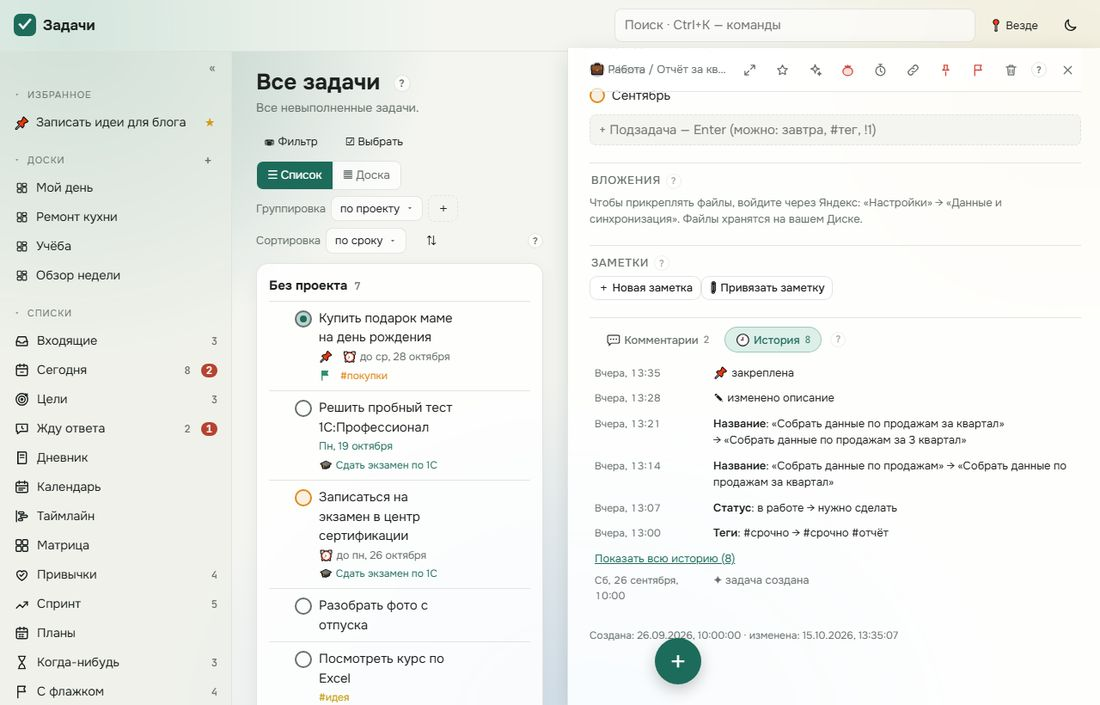
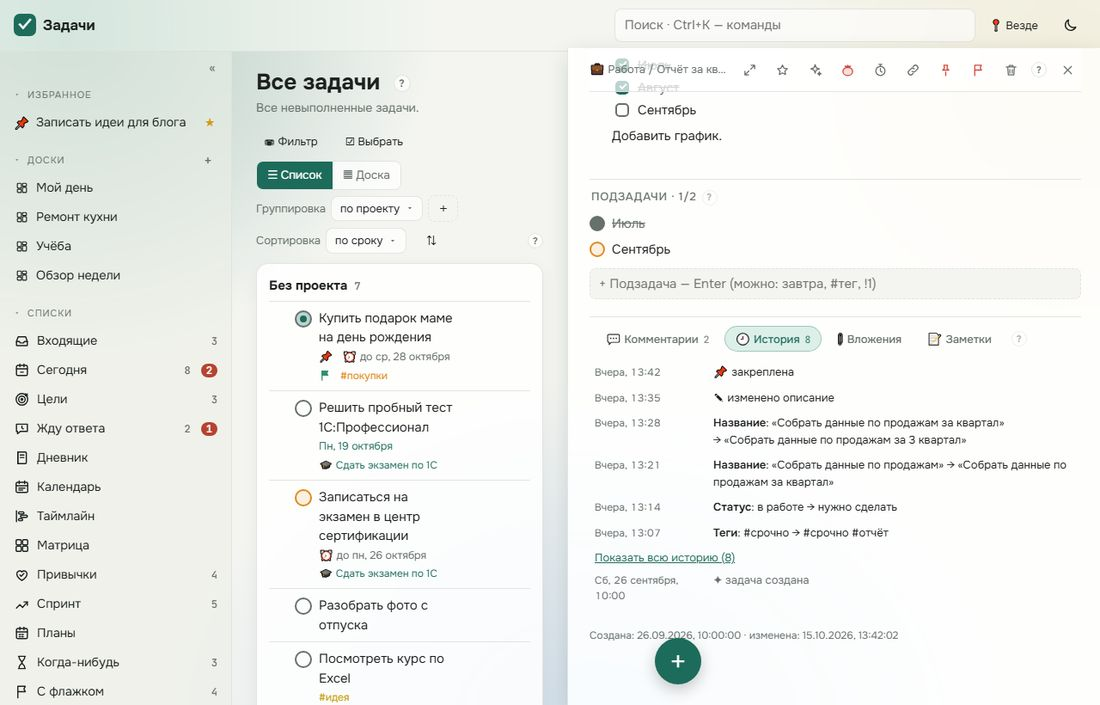
Задачи: вложения и заметки — тоже закладками рядом с комментариями и историей

diff --git a/zadachi/index.html b/zadachi/index.html
@@ -1800,7 +1800,8 @@ CREATE TABLE inbox (
   }
   function hiWhen(d) { return dayName(d) + ", " + hm(d); }
   var HALL = null;
-  function pnTab() { return LS.get("zd-pntab") === "hist" ? "hist" : "chat"; }
+  function pnTab() { var v = LS.get("zd-pntab"); return v === "hist" || v === "files" || v === "notes" ? v : "chat"; }
+  function pnTabSet(box, v) { LS.set("zd-pntab", v); [].forEach.call(box.querySelectorAll("[data-p=pntab]"), function (b) { var on = b.dataset.v === v; b.classList.toggle("on", on); b.setAttribute("aria-selected", on); }); [].forEach.call(box.querySelectorAll(".pntb"), function (b) { b.hidden = b.dataset.tb !== v; }); }
   function histBody(t) {
     var h = Array.isArray(t.h) ? t.h : [], all = HALL === t.id, list = h.slice().reverse(), shown = all ? list : list.slice(0, 6);
     var out = "";
@@ -2076,7 +2077,7 @@ CREATE TABLE inbox (
   };
   // данные: сжатый JSON по 900 знаков в свойствах служебных папок app:/tasks/state/c000…
   var CHUNK = 900, ROOT = "app:/tasks/state", ROOT3 = "app:/tasks/s3", LEGACY_UNTIL = new Date("2026-12-31T00:00:00").getTime();
-  var APPV = "zd-app-2026-10-16-46";
+  var APPV = "zd-app-2026-10-16-47";
   function hash32(s) { var h = 0x811c9dc5; for (var i = 0; i < s.length; i++) { h ^= s.charCodeAt(i); h = Math.imul(h, 16777619); } return (h >>> 0).toString(36) + "." + s.length.toString(36); }
   // каноническая запись (ключи по алфавиту) — чтобы одинаковые данные на разных устройствах давали одинаковый отпечаток
   function canon(o) { if (Array.isArray(o)) return "[" + o.map(canon).join(",") + "]"; if (o && typeof o === "object") return "{" + Object.keys(o).sort().map(function (k) { return JSON.stringify(k) + ":" + canon(o[k]); }).join(",") + "}"; return JSON.stringify(o === undefined ? null : o); }
@@ -4814,6 +4815,7 @@ CREATE TABLE inbox (
     var FIG = {
       start: [["today", "«Сегодня» на компьютере: слева — доски, списки, проекты; в середине — задачи; сверху — главное дня, план, привычки"], ["mtoday", "На телефоне левая панель прячется за кнопку ☰", 1]],
       tarch: [["tarch", "«Архив задач»: выполненные по месяцам, поиск, срок архивации"]],
+      chat: [["pntabs", "Закладки внизу карточки: комментарии, история, вложения и заметки"]],
       hist: [["hist", "Блок «История» в карточке: что и когда менялось; ↶ вернуть — прежнее значение"]],
       quick: [["quick", "Быстрый ввод: под полем видно, что поняло приложение — дата и время, проект, тег, приоритет"]],
       pal: [["pal", "Палитра Ctrl+K: поиск по проектам, задачам и командам; Enter без выбора создаёт задачу"]],
@@ -4893,7 +4895,7 @@ CREATE TABLE inbox (
         "<b>Напоминание</b> — в Telegram, в момент начала и/или заранее (за 5, 15, 30 минут, за час, за день).",
         "Ниже — <b>описание</b> (полноценный редактор), <b>подзадачи</b> и <b>комментарии</b>.",
         "У подзадачи вверху — «↑ Родительская задача»."]));
-    h += sec("hist", "История изменений", "<p>Внизу карточки задачи — блок с закладками <b>«💬 Комментарии»</b> и <b>«🕘 История»</b> (выбранная закладка запоминается). История — что и когда менялось. Записываются название, срок и дедлайн, повтор, приоритет, теги, проект и секция, флажок, статус, оценка, спринт, «входит в», «сначала сделать», «жду ответа», цель, закрепление, выполнение и отмена, удаление в корзину и восстановление, изменения описания.</p>" +
+    h += sec("hist", "История изменений", "<p>Внизу карточки задачи — блок с закладками <b>«💬 Комментарии»</b>, <b>«🕘 История»</b>, <b>«📎 Вложения»</b> и <b>«📝 Заметки»</b>; число на закладке — сколько там записей, выбранная закладка запоминается. Файлы можно бросить мышью на любую закладку — откроются «Вложения». История — что и когда менялось. Записываются название, срок и дедлайн, повтор, приоритет, теги, проект и секция, флажок, статус, оценка, спринт, «входит в», «сначала сделать», «жду ответа», цель, закрепление, выполнение и отмена, удаление в корзину и восстановление, изменения описания.</p>" +
       "<ul><li>Новые записи — сверху; видны последние 6, «Показать всю историю» — все (хранятся последние 40 изменений задачи).</li>" +
       "<li><b>↶ вернуть</b> — у записи, если значение с тех пор не менялось: вернёт прежнее (например, срок или проект). Само возвращение тоже попадёт в историю.</li>" +
       "<li>Быстрые правки одного поля подряд (пока печатаете название, двигаете задачу в календаре) собираются в одну запись.</li>" +
@@ -6319,24 +6321,28 @@ CREATE TABLE inbox (
       kids.sort(cmpBy("manual")).map(function (k) { return '<div class="sr' + (k.done ? " done" : "") + '"><button class="ck' + (k.prio ? " p" + k.prio : "") + (k.done ? " dn" : "") + '" type="button" data-p="subtoggle" data-id="' + k.id + '" aria-label="Готово"></button><a data-p="open" data-id="' + k.id + '">' + esc(k.t) + (tkids(k.id).length ? ' <span class="muted">· ' + tkids(k.id).length + "</span>" : "") + (k.at ? ' <span class="muted">· ' + esc(whenTxt(k)) + "</span>" : "") + "</a></div>"; }).join("") +
       '<input id="pn-sub" placeholder="+ Подзадача — Enter (можно: завтра, #тег, !1)"></div>';
     var fl = t.files || [], canUp = YD.on && !!YD.token();
-    h += '<div class="pn-sec pn-files"><h3>Вложения' + (fl.length ? " · " + fl.length : "") + "</h3>" + (fl.length ? '<div class="flist">' + fl.map(function (f) { var img = /^image\//.test(f.ty || ""); return '<div class="fitem">' + (img ? '<img data-ydimg="' + esc(f.p) + '" alt="" loading="lazy">' : '<span class="fic">📄</span>') + '<a data-p="fopen" data-id="' + f.id + '" title="Открыть в новой вкладке">' + esc(f.n) + '</a><span class="muted">' + (f.sz > 1048576 ? (Math.round(f.sz / 104857.6) / 10) + " МБ" : Math.max(1, Math.round((f.sz || 0) / 1024)) + " КБ") + '</span><button type="button" class="ibtn" data-p="fdel" data-id="' + f.id + '" title="Удалить вложение (файл уйдёт в корзину Диска)">×</button></div>'; }).join("") + "</div>" : "") +
-      (canUp ? '<label class="btn sm fpick">📎 Прикрепить файл<input type="file" id="pn-file" multiple hidden></label><span class="muted"> или перетащите файлы сюда · хранятся на вашем Яндекс Диске (папка приложения)</span>' + (ATTUP ? '<div class="muted">Загружаю: ' + esc(ATTUP) + "…</div>" : "") : '<p class="muted" style="margin:0">Чтобы прикреплять файлы, войдите через Яндекс: «Настройки» → «Данные и синхронизация». Файлы хранятся на вашем Диске.</p>') + "</div>";
+    var filesB = (fl.length ? '<div class="flist">' + fl.map(function (f) { var img = /^image\//.test(f.ty || ""); return '<div class="fitem">' + (img ? '<img data-ydimg="' + esc(f.p) + '" alt="" loading="lazy">' : '<span class="fic">📄</span>') + '<a data-p="fopen" data-id="' + f.id + '" title="Открыть в новой вкладке">' + esc(f.n) + '</a><span class="muted">' + (f.sz > 1048576 ? (Math.round(f.sz / 104857.6) / 10) + " МБ" : Math.max(1, Math.round((f.sz || 0) / 1024)) + " КБ") + '</span><button type="button" class="ibtn" data-p="fdel" data-id="' + f.id + '" title="Удалить вложение (файл уйдёт в корзину Диска)">×</button></div>'; }).join("") + "</div>" : "") +
+      (canUp ? '<label class="btn sm fpick">📎 Прикрепить файл<input type="file" id="pn-file" multiple hidden></label><span class="muted"> или перетащите файлы сюда · хранятся на вашем Яндекс Диске (папка приложения)</span>' + (ATTUP ? '<div class="muted">Загружаю: ' + esc(ATTUP) + "…</div>" : "") : '<p class="muted" style="margin:0">Чтобы прикреплять файлы, войдите через Яндекс: «Настройки» → «Данные и синхронизация». Файлы хранятся на вашем Диске.</p>');
     var tn = notesOfTask(t.id);
-    h += '<div class="pn-sec pn-notes"><h3>Заметки' + (tn.length ? " · " + tn.length : "") + "</h3>" + tn.map(function (n) { return '<div class="nrow"><a data-p="nopen" data-id="' + n.id + '">📝 ' + (n.t ? esc(n.t) : "Без названия") + "</a>" + (noteText(n) ? '<span class="muted">' + esc(noteText(n).slice(0, 70)) + "</span>" : "") + '<button type="button" class="ibtn" data-p="nunl" data-id="' + n.id + '" title="Отвязать заметку от задачи">×</button></div>'; }).join("") +
-      '<div class="r"><button type="button" class="btn sm" data-p="nnew">＋ Новая заметка</button><button type="button" class="btn sm" data-p="npick">' + (NPICK ? "Готово" : "📎 Привязать заметку") + "</button></div>" + (NPICK ? '<div class="npick"><input type="search" id="npq" placeholder="Найти заметку" autocomplete="off"><div id="npres">' + taskNotePick(t, "") + "</div></div>" : "") + "</div>";
+    var notesB = (tn.length ? "" : '<p class="muted" style="margin:0 0 6px">К задаче пока не привязано заметок — создайте новую или привяжите готовую (конспект, инструкцию, протокол встречи).</p>') + tn.map(function (n) { return '<div class="nrow"><a data-p="nopen" data-id="' + n.id + '">📝 ' + (n.t ? esc(n.t) : "Без названия") + "</a>" + (noteText(n) ? '<span class="muted">' + esc(noteText(n).slice(0, 70)) + "</span>" : "") + '<button type="button" class="ibtn" data-p="nunl" data-id="' + n.id + '" title="Отвязать заметку от задачи">×</button></div>'; }).join("") +
+      '<div class="r"><button type="button" class="btn sm" data-p="nnew">＋ Новая заметка</button><button type="button" class="btn sm" data-p="npick">' + (NPICK ? "Готово" : "📎 Привязать заметку") + "</button></div>" + (NPICK ? '<div class="npick"><input type="search" id="npq" placeholder="Найти заметку" autocomplete="off"><div id="npres">' + taskNotePick(t, "") + "</div></div>" : "");
     var cm = comments(t.id), lastDay = "";
     var ptab = pnTab(), hn = (t.h || []).length;
     h += '<div class="pn-sec pn-chat pn-tabs"><h3 class="pntabs" role="tablist">' +
       '<button type="button" role="tab" data-p="pntab" data-v="chat" class="' + (ptab === "chat" ? "on" : "") + '" aria-selected="' + (ptab === "chat") + '">💬 Комментарии' + (cm.length ? ' <span class="c">' + cm.length + "</span>" : "") + "</button>" +
-      '<button type="button" role="tab" data-p="pntab" data-v="hist" class="' + (ptab === "hist" ? "on" : "") + '" aria-selected="' + (ptab === "hist") + '">🕘 История' + (hn ? ' <span class="c">' + hn + "</span>" : "") + "</button></h3>" +
+      '<button type="button" role="tab" data-p="pntab" data-v="hist" class="' + (ptab === "hist" ? "on" : "") + '" aria-selected="' + (ptab === "hist") + '">🕘 История' + (hn ? ' <span class="c">' + hn + "</span>" : "") + "</button>" +
+      '<button type="button" role="tab" data-p="pntab" data-v="files" class="' + (ptab === "files" ? "on" : "") + '" aria-selected="' + (ptab === "files") + '">📎 Вложения' + (fl.length ? ' <span class="c">' + fl.length + "</span>" : "") + "</button>" +
+      '<button type="button" role="tab" data-p="pntab" data-v="notes" class="' + (ptab === "notes" ? "on" : "") + '" aria-selected="' + (ptab === "notes") + '">📝 Заметки' + (tn.length ? ' <span class="c">' + tn.length + "</span>" : "") + "</button></h3>" +
       '<div class="pntb" data-tb="chat"' + (ptab === "chat" ? "" : " hidden") + '><div class="msgs">' + cm.map(function (c) {
       var dd = dayName(c.at), out = "";
       if (dd !== lastDay) { out += '<div class="day">' + esc(dd) + "</div>"; lastDay = dd; }
       return out + '<div class="msg" data-cid="' + c.id + '"><div class="mh"><b>' + (c.src === "tg" ? "Telegram" : "Я") + "</b><span>" + hm(c.at) + (c.edited ? " · изменено" : "") + '</span><button type="button" data-p="cedit" title="Изменить">✎</button><button type="button" data-p="cdel" title="Удалить">×</button></div><div class="mb">' + linkify(c.text) + "</div></div>";
     }).join("") + "</div>" + (CED ? '<div class="editing">Редактирование комментария · <a href="#" data-p="ccancel">отмена</a></div>' : "") +
       '<div class="cin"><textarea id="pn-c" rows="1" placeholder="Комментарий… Enter — отправить, Shift+Enter — новая строка">' + esc(CED ? (live(S.comments).filter(function (c) { return c.id === CED; })[0] || {}).text || "" : "") + '</textarea><button class="btn mic sm" type="button" data-a="mic" data-for="pn-c" title="Надиктовать комментарий">🎤</button><button class="btn pri sm" type="button" data-p="csend">' + (CED ? "Сохранить" : "Отправить") + "</button></div></div>" +
-      '<div class="pntb pn-hist" data-tb="hist"' + (ptab === "hist" ? "" : " hidden") + ">" + histBody(t) + "</div></div>";
-    h += '<p class="pn-foot">Создана: ' + new Date(t.created || t.upd || Date.now()).toLocaleString("ru-RU") + (t.upd ? " · изменена: " + new Date(t.upd).toLocaleString("ru-RU") : "") + (t.src === "tg" ? " · из Telegram" : "") + "</p>";
+      '<div class="pntb pn-hist" data-tb="hist"' + (ptab === "hist" ? "" : " hidden") + ">" + histBody(t) + "</div>" +
+      '<div class="pntb pn-files" data-tb="files"' + (ptab === "files" ? "" : " hidden") + ">" + filesB + "</div>" +
+      '<div class="pntb pn-notes" data-tb="notes"' + (ptab === "notes" ? "" : " hidden") + ">" + notesB + "</div></div>";
+    h += '<p class="pn-foot">Создана: ' + new Date(t.created || t.upd || Date.now()).toLocaleString("ru-RU") + (t.upd > 1e11 ? " · изменена: " + new Date(t.upd).toLocaleString("ru-RU") : "") + (t.src === "tg" ? " · из Telegram" : "") + "</p>";
     P.innerHTML = '<div class="grip" title="Потяните, чтобы изменить ширину; двойной клик — ширина по умолчанию"></div><div class="pn-sc"><div class="pn-in">' + h + "</div></div>";
     P.hidden = false; P.classList.toggle("full", full); document.body.classList.add("pnopen"); document.body.classList.toggle("pnfull", full);
     pnLayout(P);
@@ -6348,7 +6354,7 @@ CREATE TABLE inbox (
   }
   /* ---------- карточка задачи: поля и блоки переставляются мышью (порядок — в настройках, синхронизируется) ---------- */
   var PNROW = { "Срок": "due", "Дедлайн": "deadline", "Секция": "sec", "Проект": "proj", "Спринт": "sprint", "Статус": "status", "Приоритет": "prio", "Теги": "tags", "Учёт времени": "track", "Входит в": "parent", "Напоминание": "rem", "Сначала сделать": "after", "Ждут эту задачу": "blocks", "Жду ответа": "wait" };
-  var PNSEC = ["props", "desc", "subs", "files", "notes", "chat"], PDR = null;
+  var PNSEC = ["props", "desc", "subs", "chat"], PDR = null;
   // порядок: сохранённый; недостающие поля встают после своего соседа из порядка по умолчанию
   function pnOrder(keys, saved, def) { var out = saved.filter(function (k) { return keys.indexOf(k) >= 0; }); keys.forEach(function (k) { if (out.indexOf(k) >= 0) return; var di = def.indexOf(k), at = 0; for (var j = di - 1; j >= 0; j--) { var pi = out.indexOf(def[j]); if (pi >= 0) { at = pi + 1; break; } } out.splice(at, 0, k); }); return out; }
   // сохранить новый порядок видимых полей, не теряя места скрытых (например, «Статус» у выполненной задачи)
@@ -6483,7 +6489,7 @@ CREATE TABLE inbox (
     if (a === "del") { flushBody(); del(t); return; }
     if (a === "flag") { var rpf = el.getBoundingClientRect(); ctxShow(rpf.left - 170, rpf.bottom + 4, flagMenu(t), { k: "task", id: t.id }); return; }
     if (a === "pin") { setTask(function (x) { x.pin = !x.pin; }); return; }
-    if (a === "pntab") { var v = el.dataset.v === "hist" ? "hist" : "chat"; LS.set("zd-pntab", v); var box = el.closest(".pn-tabs"); [].forEach.call(box.querySelectorAll("[data-p=pntab]"), function (b) { var on = b.dataset.v === v; b.classList.toggle("on", on); b.setAttribute("aria-selected", on); }); [].forEach.call(box.querySelectorAll(".pntb"), function (b) { b.hidden = b.dataset.tb !== v; }); if (v === "chat") { var ci2 = $("pn-c"); if (ci2) ci2.focus(); } return; }
+    if (a === "pntab") { var v = /^(chat|hist|files|notes)$/.test(el.dataset.v) ? el.dataset.v : "chat"; pnTabSet(el.closest(".pn-tabs"), v); if (v === "chat") { var ci2 = $("pn-c"); if (ci2) ci2.focus(); } return; }
     if (a === "hall") { e.preventDefault(); HALL = HALL === OPEN ? null : OPEN; renderPanel(); return; }
     if (a === "hrev") { var ht = task(OPEN), he = ht && (ht.h || [])[+el.dataset.i]; if (he) { hiSet(ht, he.k, he.o); touch(ht); save(); render(); renderPanel(); toast((HLAB[he.k] || "Поле") + ": вернула прежнее значение"); } return; }
     if (a === "pnreset") { e.preventDefault(); delete S.opt.pnRows; delete S.opt.pnSecs; optTouch(); save(); renderPanel(); toast("Порядок полей и блоков — по умолчанию"); return; }
@@ -6527,9 +6533,9 @@ CREATE TABLE inbox (
   });
   $("panel").addEventListener("change", function (e) { if (e.target.dataset && e.target.dataset.pw === "who") { var tw = task(OPEN); if (tw && tw.wait) { tw.wait.who = e.target.value.trim().slice(0, 60); touch(tw); save(); render(); } } });
   $("panel").addEventListener("change", function (e) { if (e.target.id === "pn-file") { var tf = task(OPEN); if (tf) attUpload(tf, e.target.files); e.target.value = ""; } });
-  $("panel").addEventListener("dragover", function (e) { if (e.target.closest && e.target.closest(".pn-files") && e.dataTransfer && [].indexOf.call(e.dataTransfer.types || [], "Files") >= 0) { e.preventDefault(); e.target.closest(".pn-files").classList.add("dropin"); } });
-  $("panel").addEventListener("dragleave", function (e) { var z = e.target.closest && e.target.closest(".pn-files"); if (z) z.classList.remove("dropin"); });
-  $("panel").addEventListener("drop", function (e) { var z = e.target.closest && e.target.closest(".pn-files"); if (!z || !e.dataTransfer || !e.dataTransfer.files.length) return; e.preventDefault(); e.stopPropagation(); z.classList.remove("dropin"); var tf = task(OPEN); if (tf) attUpload(tf, e.dataTransfer.files); });
+  $("panel").addEventListener("dragover", function (e) { var tb0 = e.target.closest && e.target.closest(".pn-tabs"); if (tb0 && e.dataTransfer && [].indexOf.call(e.dataTransfer.types || [], "Files") >= 0) { var fz = tb0.querySelector(".pn-files"); if (fz && fz.hidden) pnTabSet(tb0, "files"); } if (e.target.closest && e.target.closest(".pn-files, .pn-tabs") && e.dataTransfer && [].indexOf.call(e.dataTransfer.types || [], "Files") >= 0) { e.preventDefault(); var fz2 = e.target.closest(".pn-files") || (e.target.closest(".pn-tabs") && e.target.closest(".pn-tabs").querySelector(".pn-files")); if (fz2) fz2.classList.add("dropin"); } });
+  $("panel").addEventListener("dragleave", function (e) { var tz = e.target.closest && e.target.closest(".pn-tabs"); if (tz && !tz.contains(e.relatedTarget)) { var z = tz.querySelector(".pn-files"); if (z) z.classList.remove("dropin"); } });
+  $("panel").addEventListener("drop", function (e) { var z = e.target.closest && (e.target.closest(".pn-files") || (e.target.closest(".pn-tabs") || { querySelector: function () { return null; } }).querySelector(".pn-files")); if (!z || !e.dataTransfer || !e.dataTransfer.files.length) return; e.preventDefault(); e.stopPropagation(); z.classList.remove("dropin"); var tf = task(OPEN); if (tf) attUpload(tf, e.dataTransfer.files); });
   new MutationObserver(function () { attImgs(); }).observe($("panel"), { childList: true });
   $("panel").addEventListener("change", function (e) {
     var rk = e.target.dataset && e.target.dataset.rr;

diff --git a/zadachi/sw.js b/zadachi/sw.js
@@ -1,5 +1,5 @@
 // Офлайн-кэш приложения «Задачи»
-const CACHE = 'zd-app-2026-10-16-46';
+const CACHE = 'zd-app-2026-10-16-47';
 const CORE = ['./', 'index.html', 'manifest.webmanifest', 'icon-192.png', 'icon-512.png', 'apple-touch-icon.png'];
 self.addEventListener('install', e => { e.waitUntil(caches.open(CACHE).then(c => c.addAll(CORE)).then(() => self.skipWaiting())); });
 self.addEventListener('activate', e => {
